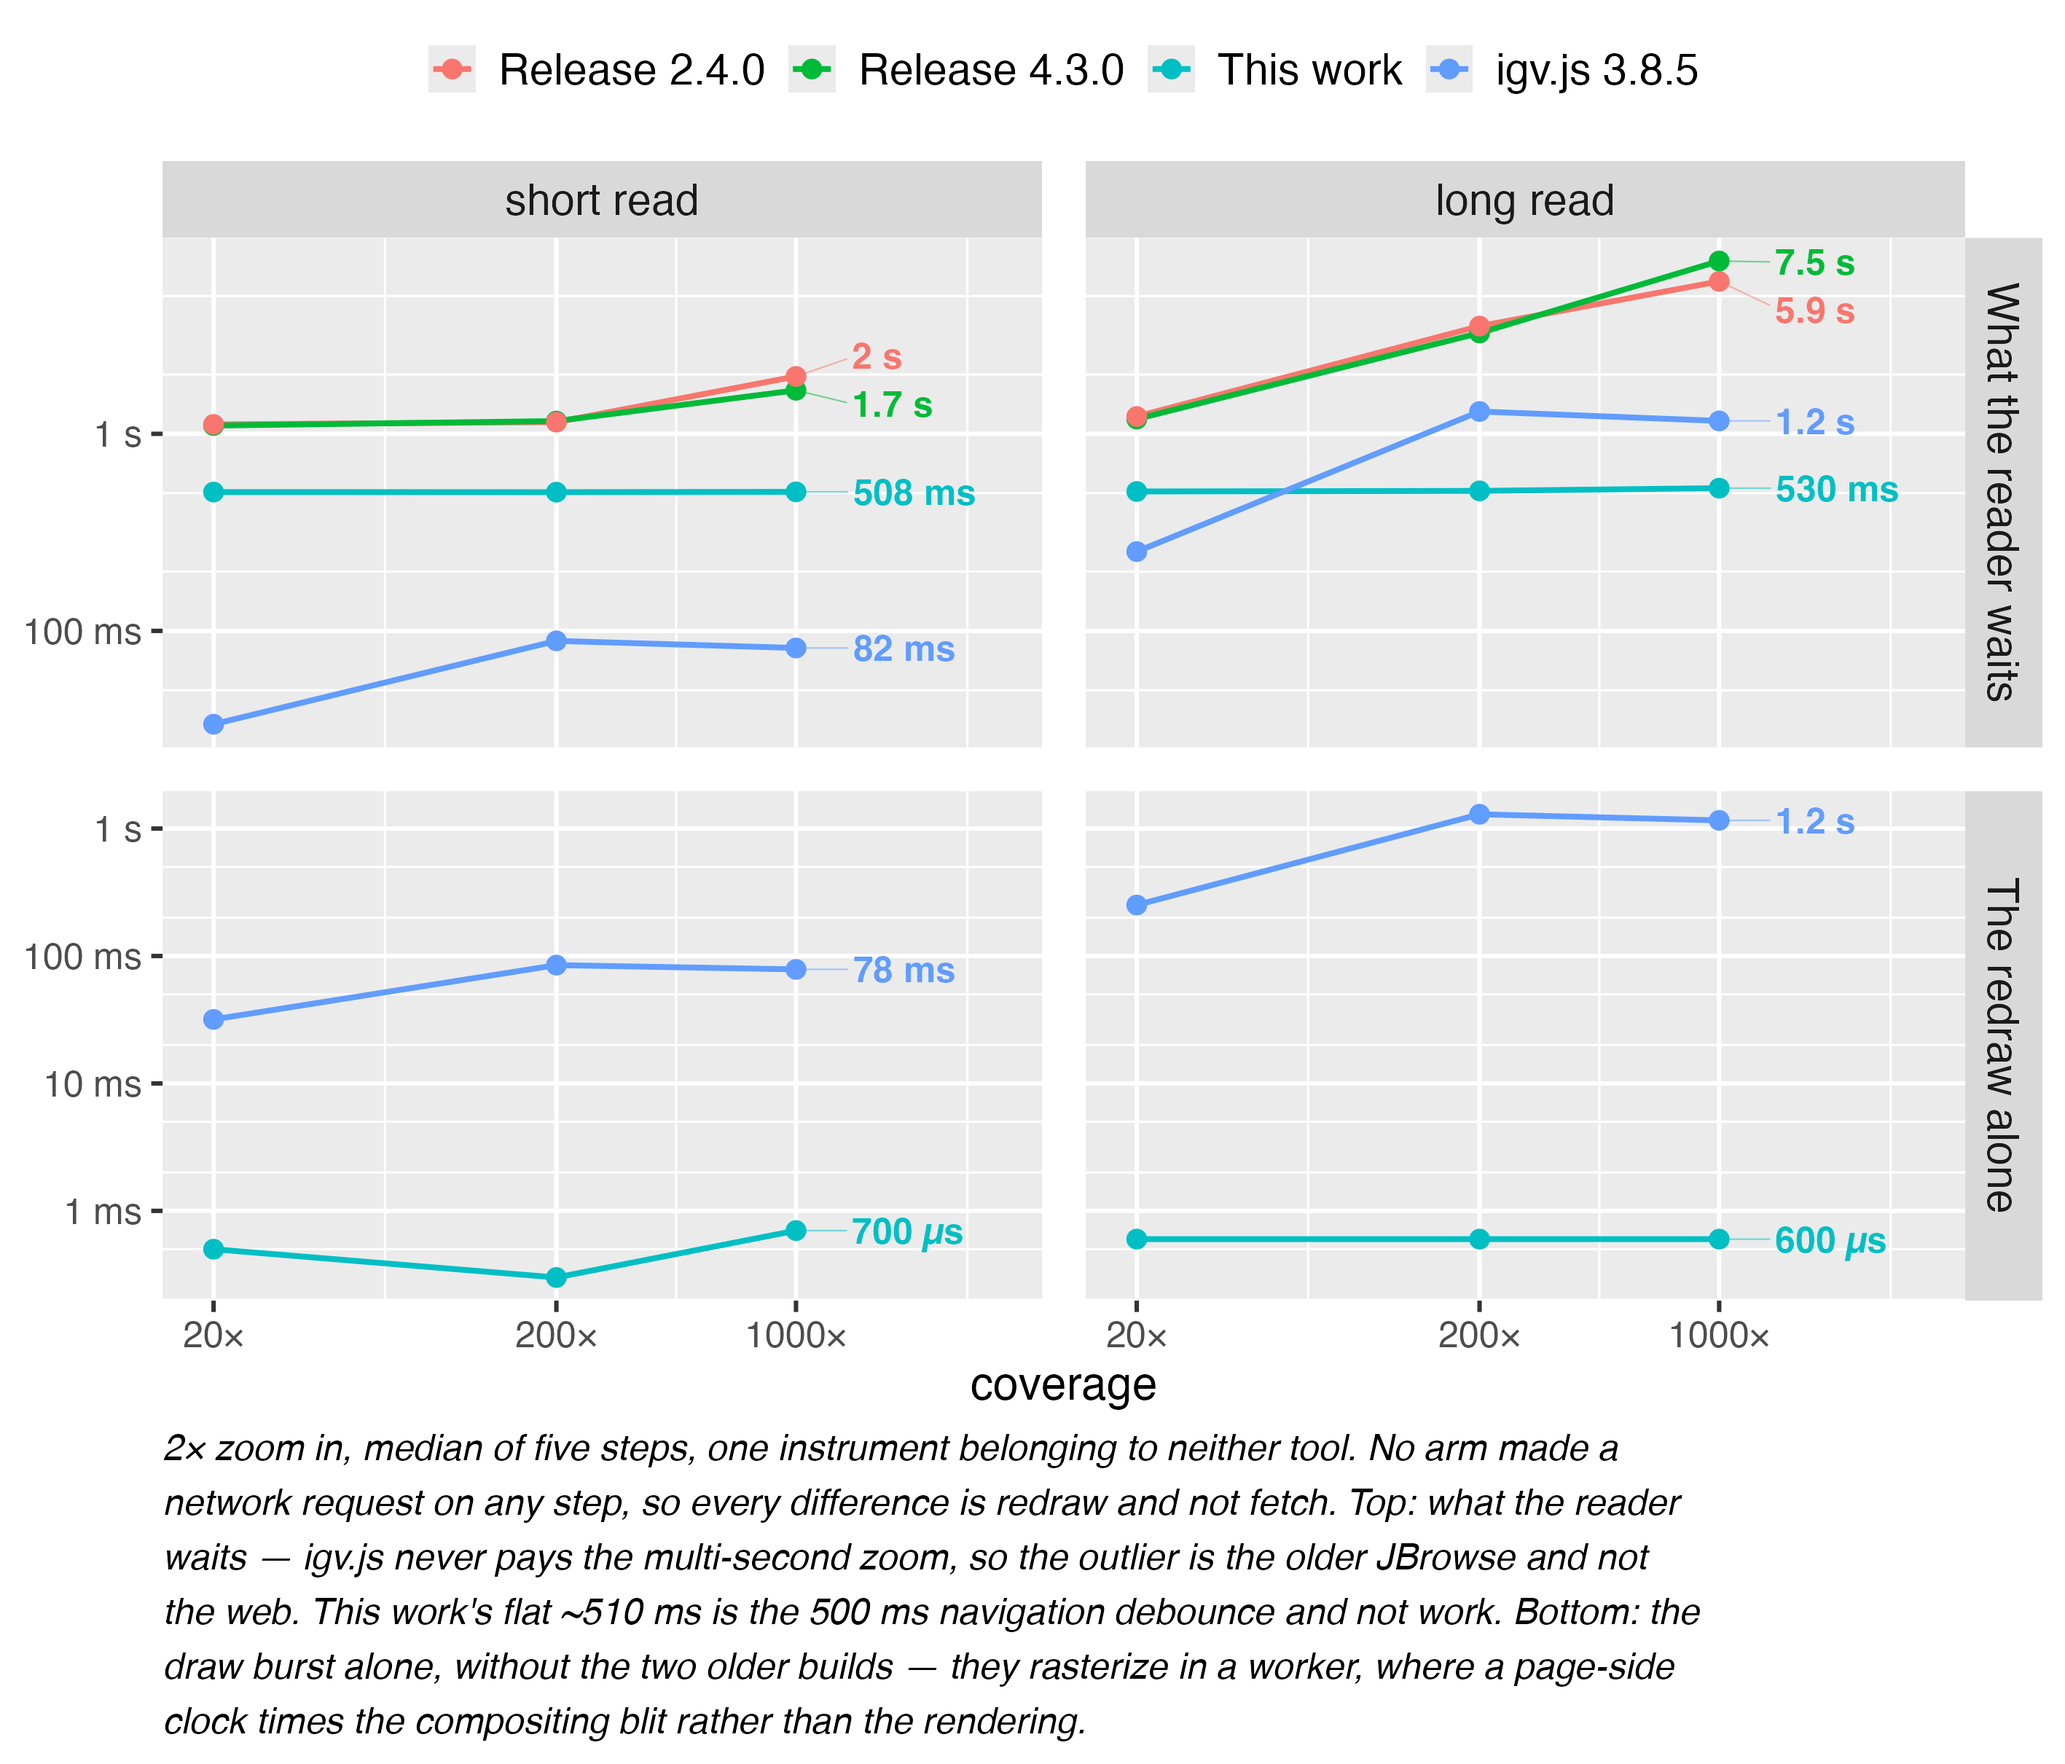
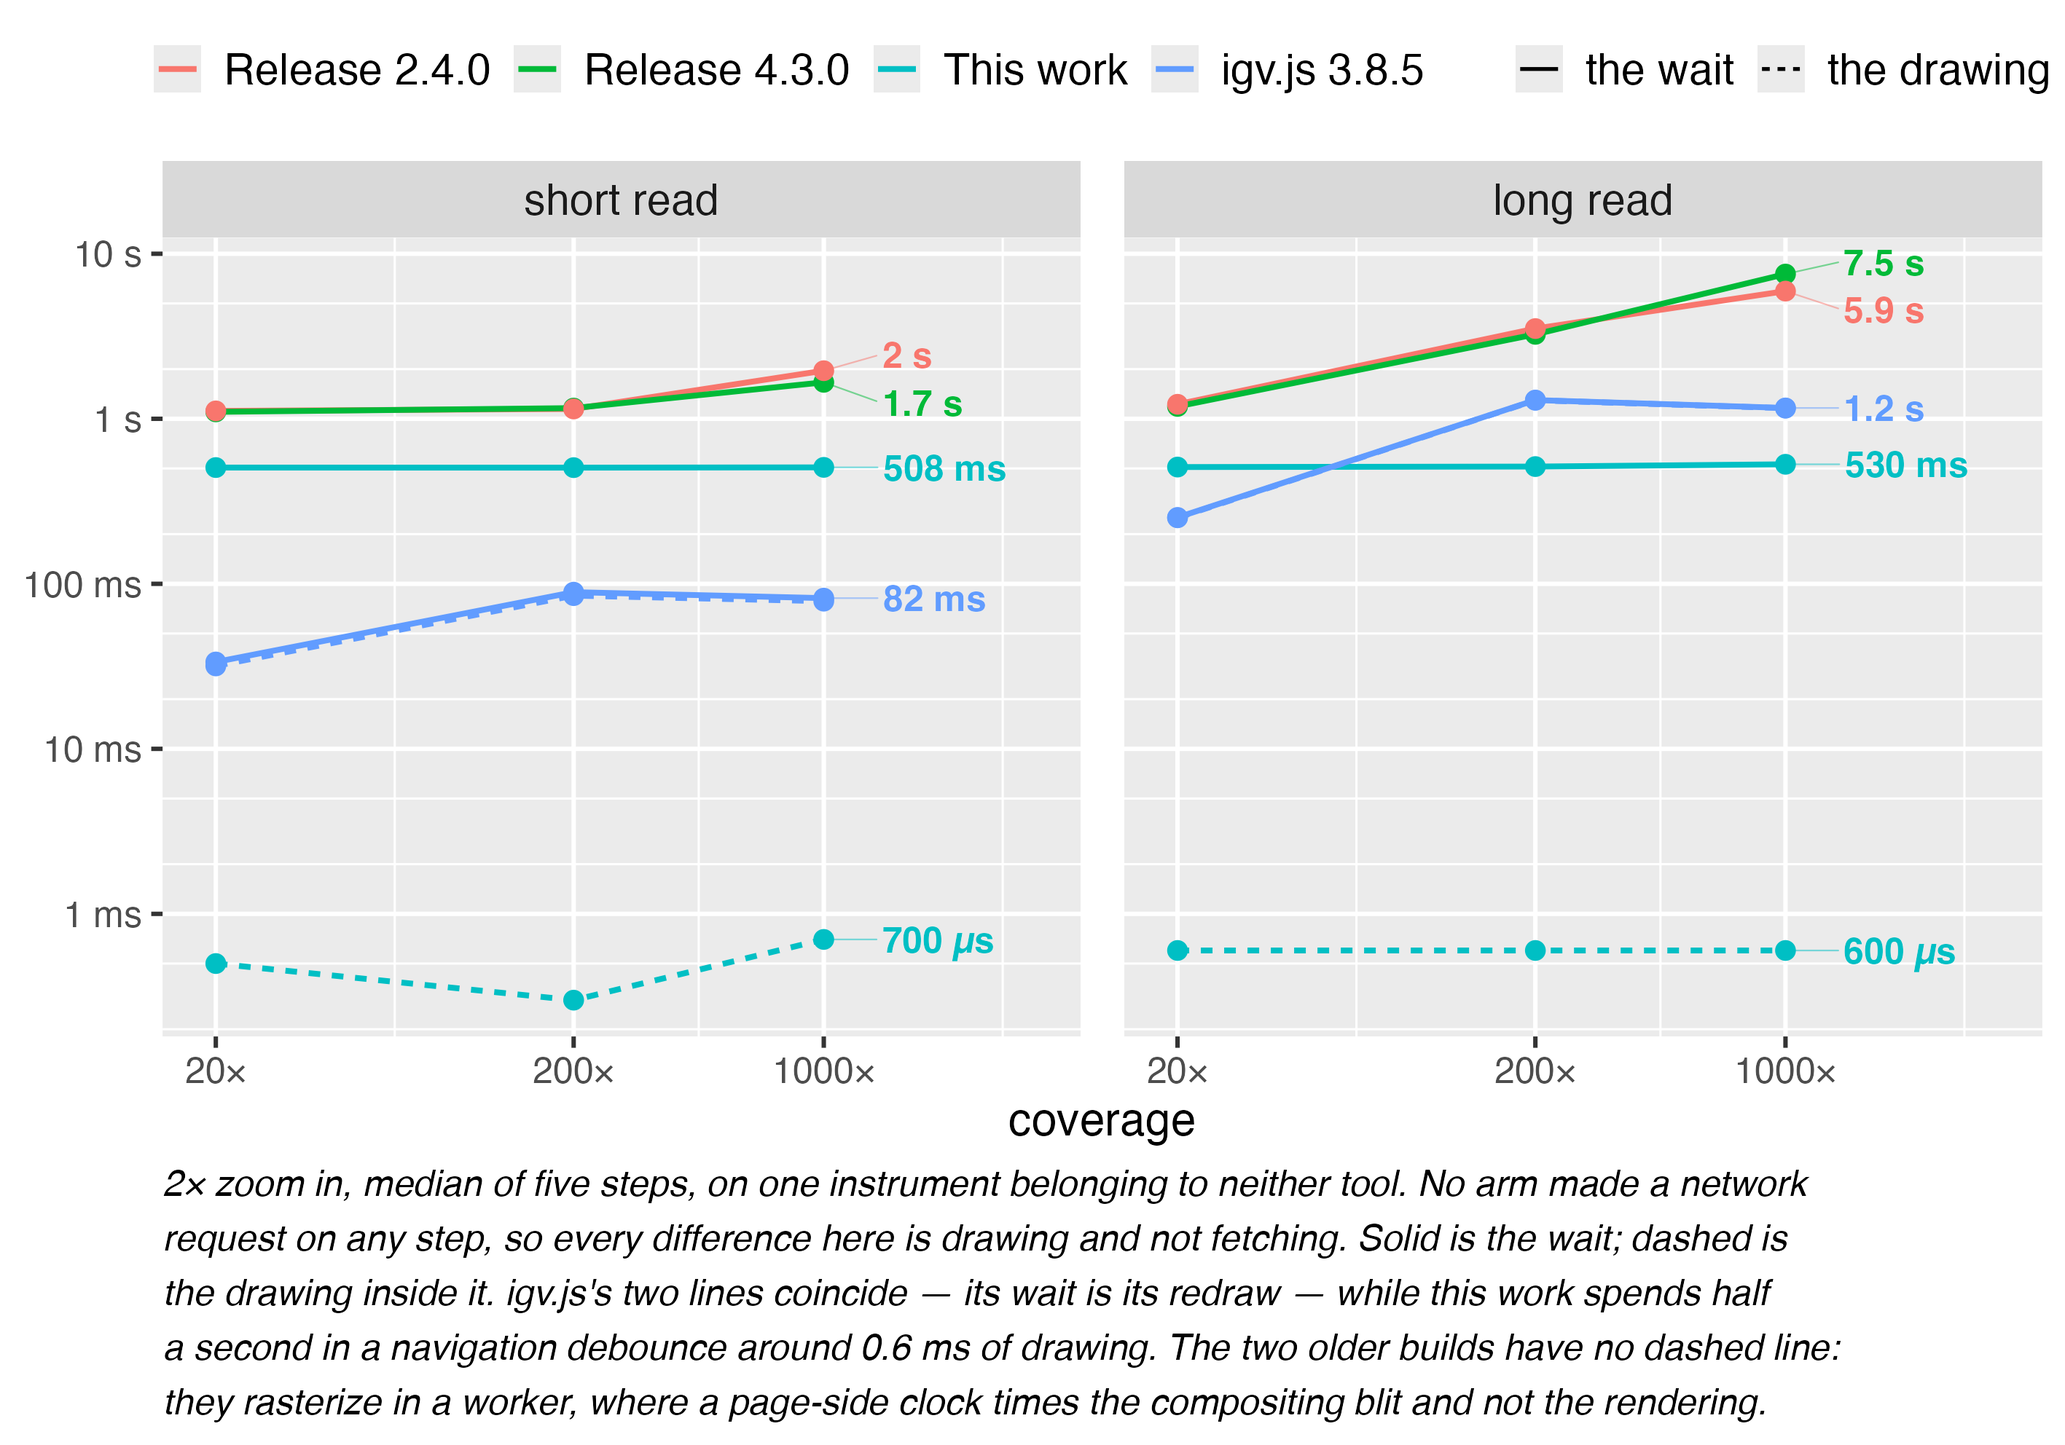
Redraw the cross-tool zoom as two panels, not four
The wait and the drawing were a faceted row each, which made the reader carry a
value across the figure to compare it with itself -- and the relation between
the two rows, that the second is a PART of the first, is the one thing a facet
strip cannot say. Solid and dashed in one panel says it: the gap between a
tool's own two lines is the part of its wait that was not drawing. igv.js's two
lines coincide, so its wait is its redraw; this work's are three decades apart,
and the gap is the navigation debounce.

Halves the panel count and drops the second y-axis the reader had to reconcile
with the first. igv's dashed endpoint goes unlabelled because it lands on its
solid one and two labels on one curve read as two measurements.

Claude-Session: https://claude.ai/code/session_01SPiYcfSqxTwy4jXnTJELPJ

diff --git a/README.md b/README.md
@@ -719,18 +719,18 @@ because half a second of constant loses to real work when the work is small. The
 current build wins the heavy long-read cases 2.2–2.7×, and beats both releases
 everywhere by 2–19×.
 
-The report prints two tables and the figure two rows — what the user waits for,
-and what the renderer did — because quoting either alone is how this benchmark
+The report prints two tables and the figure two lines per tool — what the user
+waits for, and what the renderer did — because quoting either alone is how this benchmark
 went wrong the first time. Read the redraw table with its dagger: the block
 renderer paints in a worker and the main thread blits the tiles, so `drawclock`
 times a composite for the two release arms and not a render. v2.4.0 reads 0.1 ms
 there, underneath a wait of seconds.
 
 Figure: `Rscript scripts/paperfigs/perf-crosstool-zoom.R` →
-`results/figures/paper/pdf/perf-crosstool-zoom.pdf`. Its redraw row carries only
-the current build and igv.js. A figure has no dagger to hang the worker caveat
-on, and left in, the release arms would sit at the bottom of that row as the
-fastest renderers on the page — so they are dropped from it and the caption says
+`results/figures/paper/pdf/perf-crosstool-zoom.pdf`. Solid is the wait, dashed
+the drawing inside it, and only the current build and igv.js have a dashed line.
+A figure has no dagger to hang the worker caveat on, and left in, the release
+arms would sit at the bottom of the panel as the fastest renderers on it — so they are dropped from it and the caption says
 why. What the figure is for is the comparison neither the JBrowse-only
 `perf-interaction.pdf` nor the cold-load matrix can make: igv.js does not pay a
 multi-second zoom either, so what the old block renderer cost on this motion was
